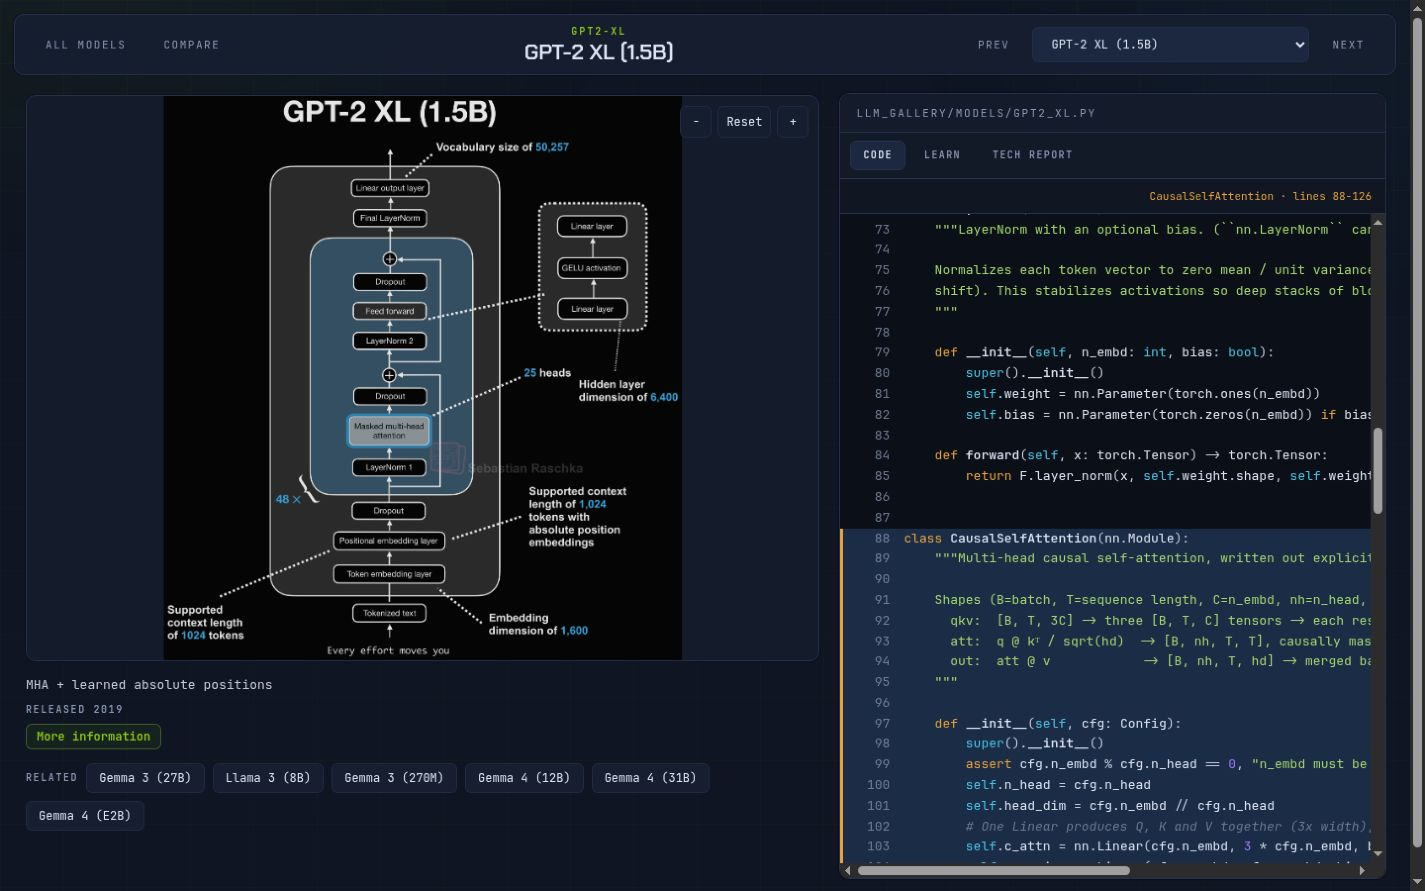
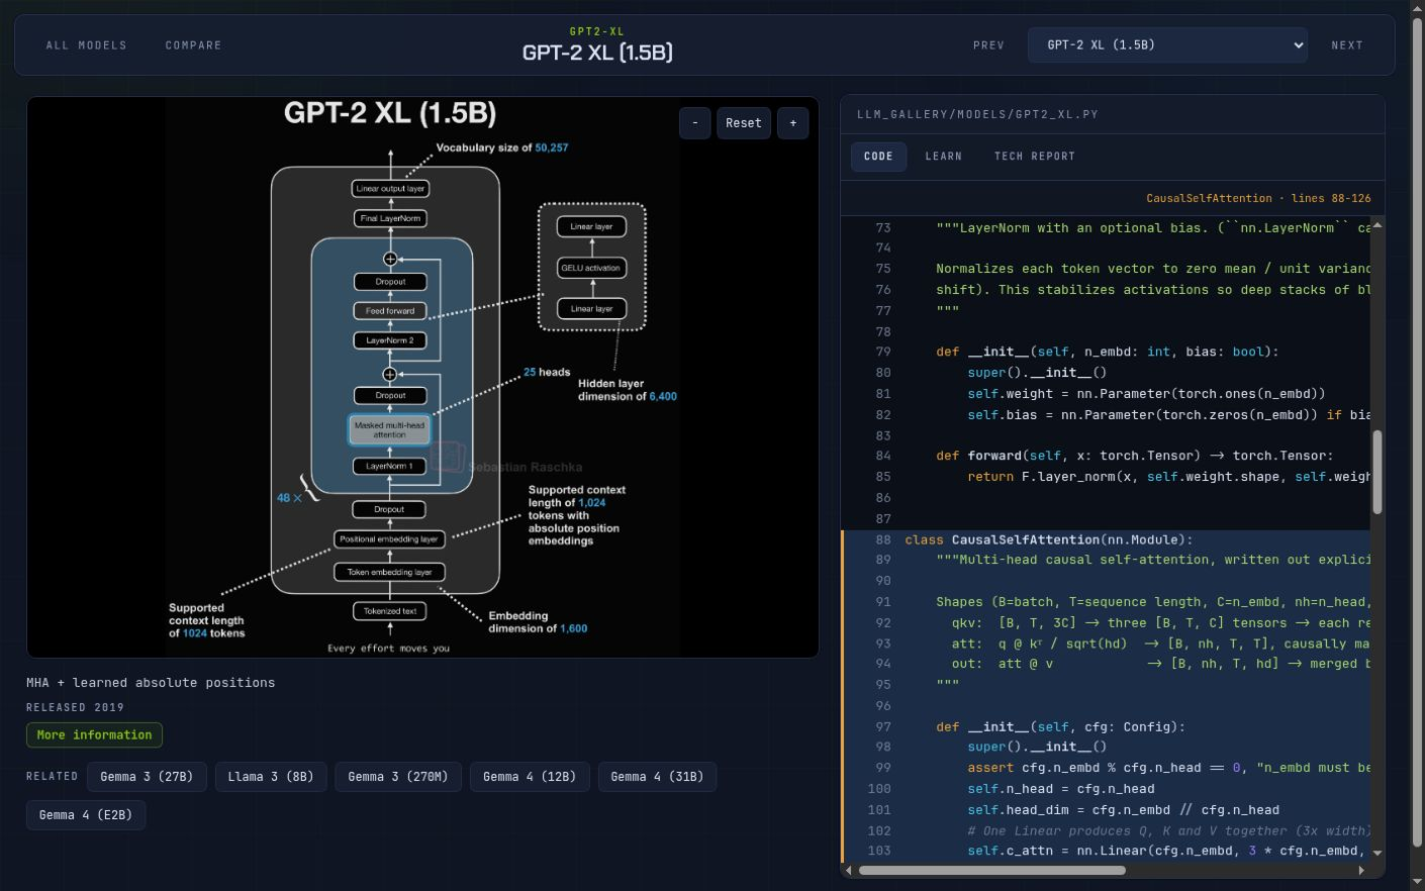
📝 refresh visualizer documentation

diff --git a/README.md b/README.md
@@ -15,6 +15,8 @@ to jump to the matching code, or select a line of code to find the corresponding
 
 ![GPT-2 XL attention mapped to its PyTorch implementation](docs/images/model-code-mapping.png)
 
+The Learn tab explains the key ideas behind each architecture.
+
 ![The Learn tab explaining an architectural concept](docs/images/model-learn.png)
 
 ## Quickstart
